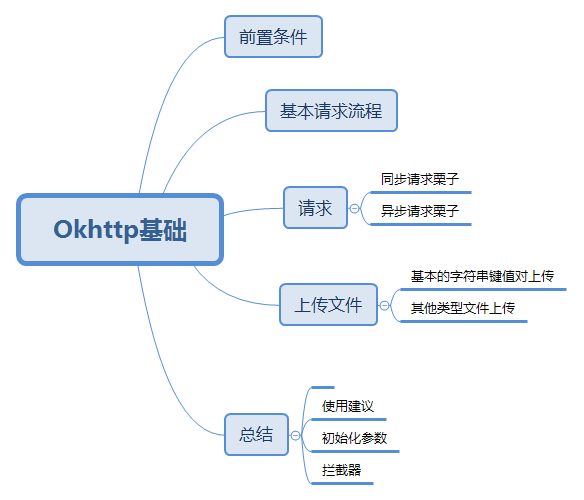
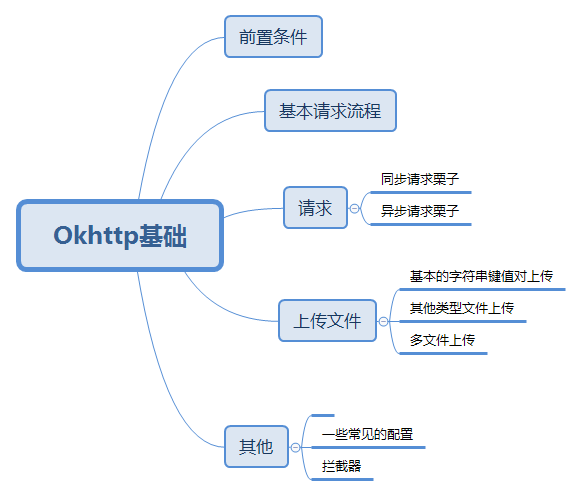
add form upload、mulFile upload and so on

diff --git a/app/src/main/java/com/sunnyday/constraintlayout/noteokhttp/MainActivity.kt b/app/src/main/java/com/sunnyday/constraintlayout/noteokhttp/MainActivity.kt
@@ -1,12 +1,13 @@
 package com.sunnyday.constraintlayout.noteokhttp
 
-import androidx.appcompat.app.AppCompatActivity
 import android.os.Bundle
 import android.util.Log
+import androidx.appcompat.app.AppCompatActivity
 import okhttp3.*
 import okhttp3.MediaType.Companion.toMediaTypeOrNull
 import java.io.File
 import java.io.IOException
+import java.util.concurrent.TimeUnit
 import kotlin.concurrent.thread
 
 class MainActivity : AppCompatActivity() {
@@ -126,7 +127,25 @@ class MainActivity : AppCompatActivity() {
     }
 
     /**
-     * @function post请求，上传json。
+     * 上传键值对.
+     * ps：
+     * 这里直接使用FormBody类即可。然后稍加封装。
+     * */
+    private fun formBody(map: Map<String, String>): FormBody {
+        return FormBody.Builder()
+            .apply {
+                if (map.isNotEmpty()) {
+                    for (key in map.keys) {
+                        map[key]?.let {
+                            add(key, it) // key value 加入form body中
+                        }
+                    }
+                }
+            }.build()
+    }
+
+    /**
+     * @function 上传json。
      *
      *  ps：
      *  1、MediaType.parse("application/json; charset=utf-8") 可获取MediaType类。
@@ -139,11 +158,58 @@ class MainActivity : AppCompatActivity() {
     }
 
     /**
-     * @function post请求，上传file。
+     * @function 上传file。
      * */
     private fun fileRequestBody(file: File): RequestBody {
         val mediaType = "File/*".toMediaTypeOrNull()
         return RequestBody.create(mediaType, file)
     }
 
+    /**
+     * 上传多文件。
+     * ps：
+     * 这里为测试数据。自己可根据业务自己封装。
+     * */
+    private fun multipartBody(): MultipartBody {
+        val file = File(cacheDir.absoluteFile.toString() + "a.txt")// 测试数据
+        return MultipartBody.Builder()
+            //设置文件类型，MultipartBody.MIXED 默认值
+            .setType(MultipartBody.MIXED)
+            // 测试数据，上传表单数据
+            .addFormDataPart("name", "Tom")
+            // 测试数据，上传文件
+            .addFormDataPart("file", file.name, fileRequestBody(file))
+            .build()
+    }
+
+    /**
+     * okHttp 一些基础设置
+     * */
+    private fun okHttpBaseSetting() {
+        thread {
+            val client = OkHttpClient.Builder()
+                // 连接超时，客户端请求连接目标域名端口的时间。默认10s。
+                .connectTimeout(60 * 1000, TimeUnit.MILLISECONDS)
+                //读取超时 默认10s
+                .readTimeout(60 * 1000, TimeUnit.MILLISECONDS)
+                //连接失败重试（默认1次，如果想自定义次数可以使用拦截器实现）
+                .retryOnConnectionFailure(true)
+                // 允许重定向
+                .followRedirects(true)
+                // 设置拦截器
+                // .addInterceptor()
+                .build()
+
+            val request = Request.Builder()
+                .get()
+                .url("https://www.baidu.com")
+                .build()
+            val response: Response = client.newCall(request).execute()
+            if (response.isSuccessful) {
+                response.body?.let {
+                    Log.d(TAG, "okHttpBaseSetting#Successful:${it.string()}")
+                }
+            }
+        }
+    }
 }

diff --git a/README.md b/README.md
@@ -191,21 +191,44 @@ companion object {
      * */
     private fun fileRequestBody(file: File): RequestBody {
         val mediaType = "File/*".toMediaTypeOrNull()
-        return RequestBody.create(mediaType, file)
+        return RequestBody.create(mediType, file)
     }
 ```
 
 
 
-待续~
+###### 3、多文件上传
+
+> 多文件上传很好理解就是上传文件时可以上传多个文件，这多个文件可以为相同文件类型也可以为不同文件类型。
 
 
 
+# 其他
+
+###### 1、常见配置
+
+> 如下是一些常见的对OkHttpClient的配置。
+
+```java
+                val client = OkHttpClient.Builder()                 
+                // 连接超时，客户端请求连接目标域名端口的时间。默认10s。
+                .connectTimeout(60 * 1000, TimeUnit.MILLISECONDS)
+                //读取超时 默认10s
+                .readTimeout(60 * 1000, TimeUnit.MILLISECONDS)
+                //连接失败重试（默认1次，如果想自定义次数可以使用拦截器实现）
+                .retryOnConnectionFailure(true)
+                // 允许重定向
+                .followRedirects(true)
+                // 设置分发器,分发OkHttp的请求，OkHttp的同步、异步请求都是通过分发器实现的。
+                //   XxxDispatcher 自己自定义。
+                .dispatcher(XxxDispatcher)
+                // 设置拦截器，XxxInterceptor自己自定义。
+                .addInterceptor(XxxInterceptor)
+```
+
+###### 2、拦截器
 
 
-
-
-# 总结
 
 # 参考资料
 
